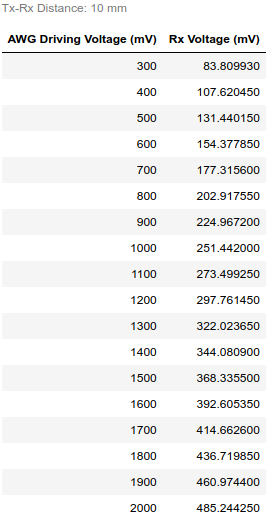
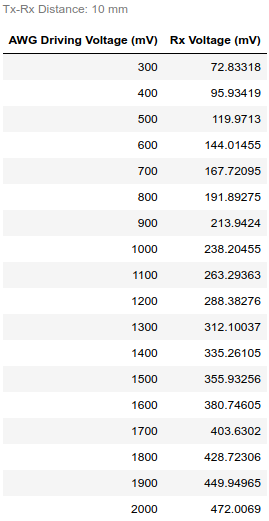
Updated plots and data tables

diff --git a/Experiment-2/README.md b/Experiment-2/README.md
@@ -26,7 +26,7 @@ For each amplitude driven by the AWG, we recorded the measurement of maxmium and
 
 ![](measurements/Picoscope_example/Picoscope_example_01.jpg )
 
-For each AWG voltage, we found the difference between the minimum and maximum Rx voltage and divided it by two to find the amplitude of the Rx voltage.
+For each AWG voltage, we found the absolute value of the difference between the maximum and minimum of each of the eight cycles divided by two. And then we average them to find the amplitude of the Rx voltage.
 
 Below is a table summarizing our measurements and calculations. The calculations are in the Jupyter Notebook in the `scripts` file, and the raw data can be observed in the `measurements` folder both as psdata and CSVs.
 
